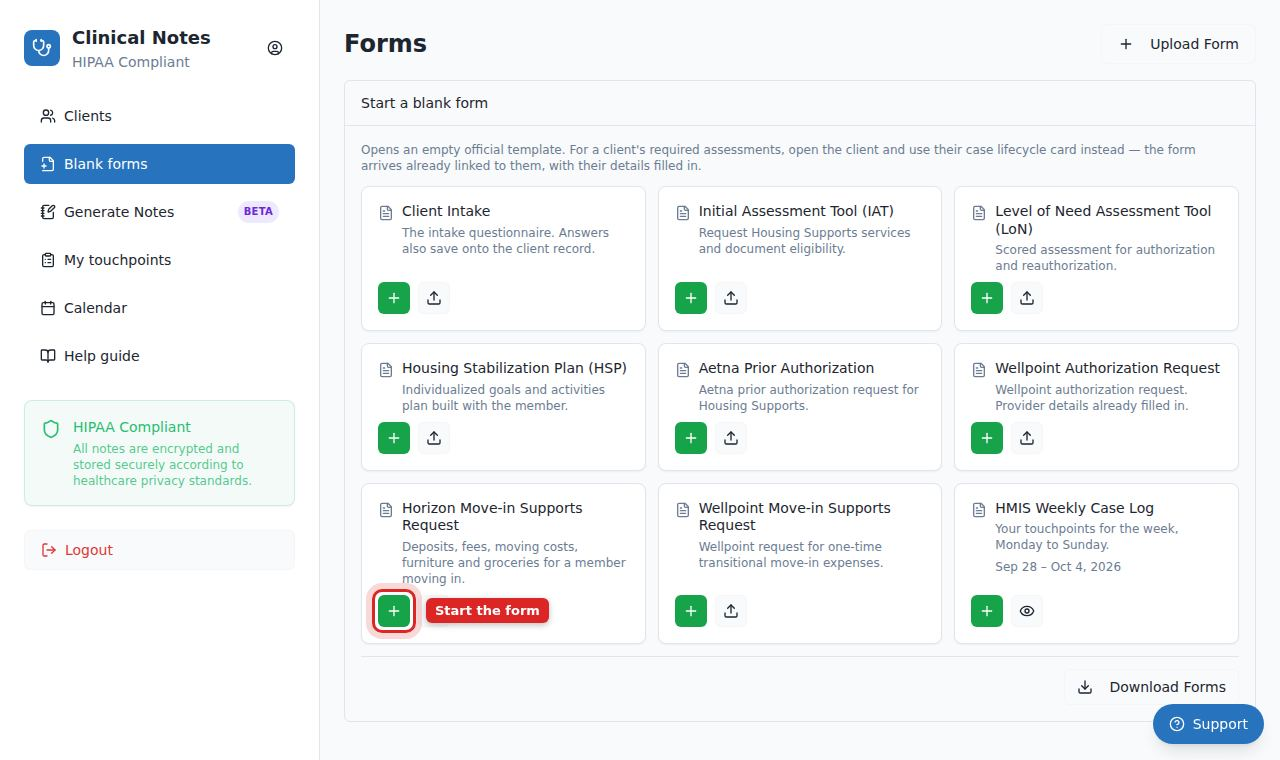
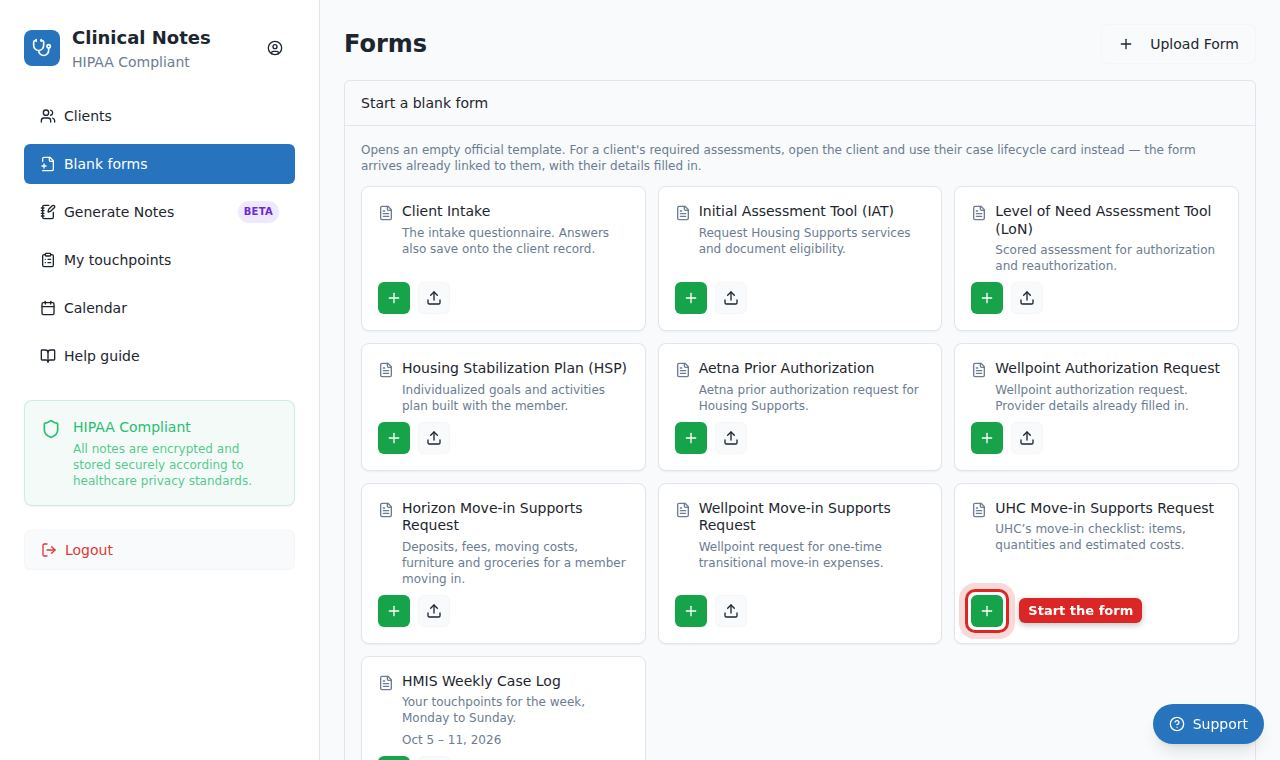
UHC Move-in Supports Request, forms prefill from other documents, staff phone
- UHC Move-in Supports Request, filled in the app while talking with the
  member: Member, Services, Food, Pantry, Hygiene, Clothing and Household
  tabs mirroring UHC's checklist; quantities, notes (flavor, type), costs,
  live totals, UHC's furniture limits, paperwork reminder, review. Completing
  it writes UHC's own spreadsheet (cells set in place, formatting kept) and
  files it on the client. Drafts reopen where they were left.
- Started from Client details > Forms (Move-in Supports Request row, which
  offers the request for the client's MCO: UHC, Horizon or Wellpoint) and
  from Blank forms. The client's MCO authorization request (Aetna,
  Wellpoint) can now be started from Client details too.
- Forms fill in from the client record and, where it is blank, from the
  client's other filed documents and intake; the case manager's name, phone,
  email and the agency name fill in where a form asks.
- Member details changed on the UHC form are saved to the client record
  (household size, emergency contact and preferred delivery are new columns).
- Staff phone number in Your account, shown to admins on the staff list.
- The two Wellpoint PDFs sent over are identical to the ones already in the
  app, so they are not added again.
- Help guide: Fill out a Move-in Supports Request, Add your phone number.

Claude-Session: https://claude.ai/code/session_012TZTkqWFZbcufo1uEC7hhK

diff --git a/src/lib/helpGuides.ts b/src/lib/helpGuides.ts
@@ -161,7 +161,18 @@ export const GUIDES: Guide[] = [
     id: 'blank-form', section: 'Forms and documents', title: 'Start a blank form', audience: 'everyone', minutes: 3,
     steps: [
       s('Open Blank forms', 'Select Blank forms in the left panel.'),
-      s('Choose the form', 'Select + on the form you need, such as a Move-in Supports Request. Select the upload icon to file one you completed elsewhere.'),
+      s('Choose the form', 'Select + on the form you need, such as the UHC Move-in Supports Request. Select the upload icon to file one you completed elsewhere.'),
+    ],
+  },
+  {
+    id: 'move-in-request', section: 'Forms and documents', title: 'Fill out a Move-in Supports Request', audience: 'everyone', minutes: 10,
+    steps: [
+      s('Open the client’s Forms tab', 'Open the client and select Forms.'),
+      s('Start the request', 'Under Move-in Supports Request, select the request for the client’s MCO: UHC, Horizon or Wellpoint. Horizon and Wellpoint open as PDFs, filled in like any other form.'),
+      s('Check the member details', 'The UHC request opens on Member, filled in from the client record and the client’s other documents. Anything you change here is saved to the client record too.'),
+      s('Go through the items with the member', 'Open each tab (Services, Food, Pantry, Hygiene, Clothing, Household). Select an item to add it, set the quantity with + and −, and fill in a flavor or type where asked. Search finds an item; Selected only shows what you picked.'),
+      s('Add the costs', 'Enter the estimated cost for each line, now or later. Totals add up by themselves. A furniture cost over UHC’s limit is flagged; UHC reviews it individually.'),
+      s('Review and complete', 'Review lists everything picked with its cost, and the paperwork to send for fees, deposits and moving costs. Select Save draft to finish later, or Complete to save UHC’s spreadsheet to the client’s forms.'),
     ],
   },
   {
@@ -377,6 +388,13 @@ export const GUIDES: Guide[] = [
     steps: [
       s('Open your account', 'Select the person icon at the top of the left panel.'),
       s('Change your password', 'Enter a new password and select Change password.'),
+    ],
+  },
+  {
+    id: 'your-phone', section: 'Getting started', title: 'Add your phone number', audience: 'everyone', minutes: 1,
+    steps: [
+      s('Open your account', 'Select the person icon at the top of the left panel.'),
+      s('Enter your phone', 'Under Phone, enter your work number and select Save. Forms that ask for the case manager’s phone fill it in.'),
     ],
   },
   {

diff --git a/src/components/forms/ClientFormsDocuments.tsx b/src/components/forms/ClientFormsDocuments.tsx
@@ -69,10 +69,12 @@ interface Props {
   onChanged?: () => void;
 }
 
+const AUTH_GROUP = 'MCO referrals and authorizations';
+
 /** Collections below the checklist: documents that arrive, rather than forms owed. */
 const EXTRA_GROUPS: { title: string; match: (f: DocumentRow) => boolean }[] = [
   {
-    title: 'MCO referrals and authorizations',
+    title: AUTH_GROUP,
     // Imported authorization paperwork the classifier could not place arrives
     // as "Unsorted" with no workflow purpose, so the filename is the only signal.
     match: (f) =>
@@ -335,6 +337,12 @@ export const ClientFormsDocuments: React.FC<Props> = ({
     const t = PDF_TEMPLATES.find((x) => x.formType === UHC_FORM_TYPE && x.mco === mco);
     return t ? { label: t.label, start: () => setFilling(t) } : null;
   }, [mco]);
+
+  /** The MCO's own authorization request (Aetna, Wellpoint), started from here. */
+  const authTemplate = useMemo(
+    () => PDF_TEMPLATES.find((x) => x.formType === 'Prior Authorization Request' && x.mco === mco) ?? null,
+    [mco],
+  );
 
   /** The blank template this app ships for a checklist form, where it has one. */
   const templateFor = (formType: string): PdfTemplate | undefined =>
@@ -613,8 +621,20 @@ export const ClientFormsDocuments: React.FC<Props> = ({
 
             <div className="space-y-2">
               {extras
-                .filter((g) => g.items.length > 0)
-                .map((g) => collapsibleGroup(g.title, g.items, <span className="w-4" />))}
+                .filter((g) => g.items.length > 0 || (g.title === AUTH_GROUP && authTemplate))
+                .map((g) =>
+                  collapsibleGroup(
+                    g.title,
+                    g.items,
+                    <span className="w-4" />,
+                    g.title === AUTH_GROUP && authTemplate ? (
+                      <Button variant="outline" size="sm" onClick={() => setFilling(authTemplate)} title={`Fill in the ${authTemplate.label}`}>
+                        <Plus className="mr-1 h-4 w-4" />
+                        {authTemplate.label}
+                      </Button>
+                    ) : undefined,
+                  ),
+                )}
             </div>
 
             {forms.length === 0 && manualTicks.size === 0 && (
